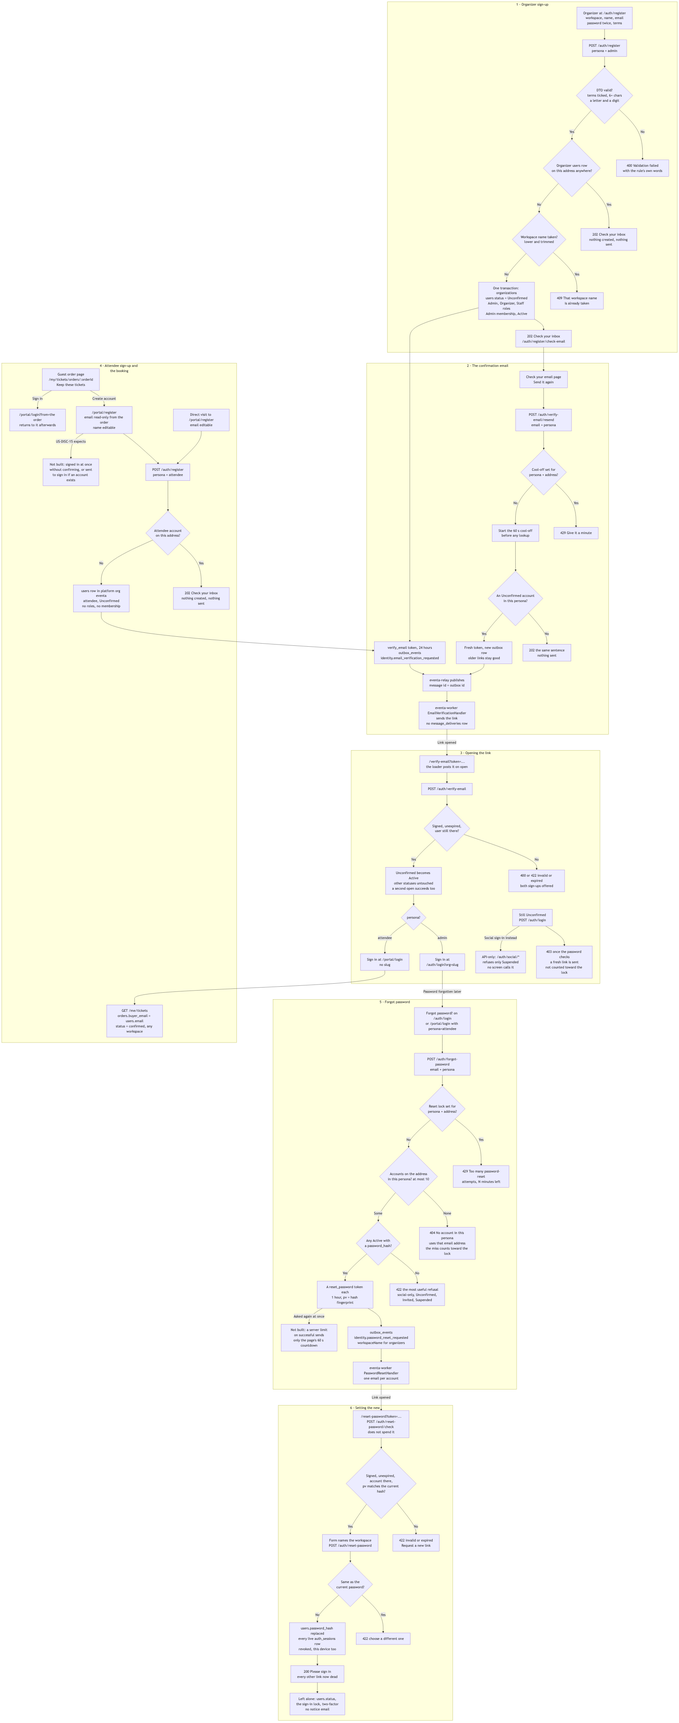
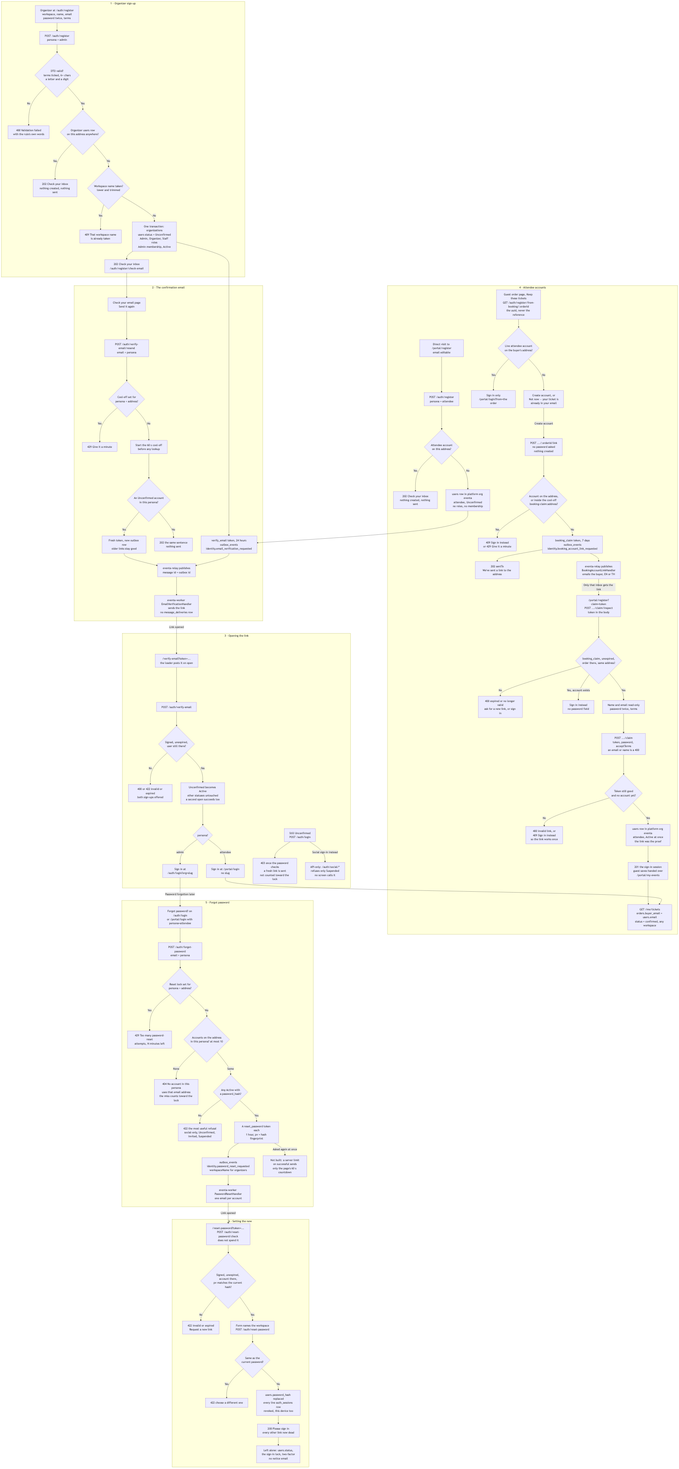
docs(flowcharts): draw the account claimed from a booking's emailed link (US-DISC-15)
Flow 14 drew the account offered from a booking as a "Not built" node and
described an order page that handed the name and address to the sign-up
form in history state. It now draws the built design: the order page asks
whether the address has an account and offers only Sign in if it does;
Create account asks for no password and only emails a one-time link
(identity.booking_account_link_requested, a 7-day booking_claim token,
the booking-claim: cool-off); the link opens /portal/register?claim= with
the name and address locked, asks for a password and the terms, and signs
straight in to an Active account. Bad, expired and used links, the 409
that makes a link single-use and the race on the unique index are drawn.

Section 4's title is shortened to one line so the new first node no longer
hides its second. Image re-rendered with Mermaid 11.4.1. Flow 23's
order-page card now says what Create account does.

diff --git a/04-architecture/flowcharts/14-sign-up-confirm-and-reset-password.md b/04-architecture/flowcharts/14-sign-up-confirm-and-reset-password.md
@@ -2,7 +2,7 @@
 
 **Screens:** Organizer sign-up, Portal sign-up, Check your email, Verify email, Guest order page, Forgot password, Reset password
 
-How somebody gets an account, proves the address is theirs, and gets back in after forgetting the password. It starts at one of two sign-up forms — `/auth/register` for an organizer, which creates a whole workspace, and `/portal/register` for an attendee, which a guest also reaches from their own order page — runs through an emailed confirmation link, and ends at the matching sign-in described in [Sign-in, roles and permissions](12-sign-in-roles-and-permissions.md). The second half starts at "Forgot password?" on either sign-in and ends with a new password and every session revoked. Changing a password while signed in, two-factor and the sessions list are [Account security](15-account-security.md); the booking whose order page offers the attendee account is [Free registration and confirmation](03-free-registration-and-confirmation.md). Organizer and attendee accounts are separate even on the same address — `users` is unique on `(organization_id, email, persona)` — so every step below is asked of one persona at a time.
+How somebody gets an account, proves the address is theirs, and gets back in after forgetting the password. It starts at one of two sign-up forms — `/auth/register` for an organizer, which creates a whole workspace, and `/portal/register` for an attendee, which a guest also reaches through a link emailed from their own order page — runs through an emailed confirmation link, and ends at the matching sign-in described in [Sign-in, roles and permissions](12-sign-in-roles-and-permissions.md). The second half starts at "Forgot password?" on either sign-in and ends with a new password and every session revoked. Changing a password while signed in, two-factor and the sessions list are [Account security](15-account-security.md); the booking whose order page offers the attendee account is [Free registration and confirmation](03-free-registration-and-confirmation.md). Organizer and attendee accounts are separate even on the same address — `users` is unique on `(organization_id, email, persona)` — so every step below is asked of one persona at a time.
 
 ![Sign-up, confirmation and password reset](images/14-sign-up-confirm-and-reset-password.png)
 
@@ -12,7 +12,11 @@ How somebody gets an account, proves the address is theirs, and gets back in aft
 
 3. **Opening the link, and what an unconfirmed account cannot do.** `/verify-email` sits outside `/auth` because the API builds the URL; it serves both personas and is not `guestOnly`. Its loader posts the token to `POST /auth/verify-email` the moment the page opens — clicking the link *is* the request, so a "confirm" button would confirm nothing — and a link with no token is refused by the page itself as incomplete. A mangled token fails the DTO's `@IsJWT` with a 400 "Validation failed." whose field message is deliberately the expired one, "This confirmation link is invalid or has expired. Request a new one."; a bad signature, an expired token or a user deleted since is that sentence as a 422. Otherwise, inside the account's tenant, a `users` row at `Unconfirmed` becomes `Active` with `updated_at`, any other status is left as it is, and the slug and persona come back. Nothing else is written — no `audit_events` row, no outbox event — and the call is idempotent: **opening the same link again within its 24 hours answers "Email confirmed" again**, although the check-email page says the link "works once" and the failure page says each one "can only be opened once". (The token's `typ` claim is not checked either, unlike the two-factor challenge's, so any token the API signs over the same user and organization would do; the only other token an unconfirmed user can come to hold is from the API-only social sign-in below.) An organizer is sent to `/auth/login?org=<slug>`, where the slug rides as a hidden `orgSlug` and skips the workspace picker; an attendee goes to bare `/portal/login`, because attendee sign-in refuses an `orgSlug` with a 422 and the platform organization is never named. A failed link offers both sign-ups by name, since a token that does not decode cannot say whose it was, and no resend, since the page has no address. Until the link is opened the account is inert. `POST /auth/login` checks the password first and only then refuses with a 403 `EMAIL_NOT_CONFIRMED`, "Please confirm your email — we’ve sent you a fresh link.", writing a new outbox row on the spot; that send bypasses the resend cool-off, being behind a proven password, and none of it counts towards the sign-in lock. The forgot-password form refuses the account with a 422 (step 5), and without a session no guarded route answers at all — even though the owner's Admin membership is already active. The one way round it is **API-only**: `POST /auth/social/organizer` and `POST /auth/social/attendee` link a provider-verified address to an existing account and refuse only `Suspended`, so a social sign-in would open a session for an account that stays `Unconfirmed`. No screen calls them — the Google button on the organizer forms says it isn't connected, and the portal has none.
 
-4. **Attendee sign-up, and the account offered from a booking.** `/portal/register` is `guestOnly('attendee')` and has no workspace field and no social buttons. `useSignUp('attendee')` posts the same `POST /auth/register` with `persona = 'attendee'`, and the shared input builder drops any workspace name, because the API refuses one for an attendee with a 422 "An attendee account doesn't have a workspace — leave organizationName out." rather than ignoring it. The duplicate check is persona-scoped: a non-deleted attendee row on the address gets the same neutral 202 with nothing created or sent, while an organizer account on the same address does not count, so one person may run events and buy tickets without either blocking the other. A new account is **one `users` row in the platform organization** (slug `eventa`, seeded by migration 0026) with `persona = 'attendee'` and `status = 'Unconfirmed'` — no workspace, no roles, no membership, because an attendee's tickets span every organizer and scoping the login to one would give them an account per organizer. A deployment missing that organization answers a 500 "Attendee accounts are unavailable right now. Please try again later." rather than a cheerful "check your inbox" for an account that was never made. From there it is steps 2 and 3 exactly, through `/portal/register/check-email` to `/portal/login`, which lands on `/portal/my-events`. `/portal/login` itself links only to Discover and to the attendee's forgot form — **not built: a "create an account" link on the attendee sign-in**, which US-DISC-08 asks for. The way in that is built is the guest's own order page, `/my/tickets/orders/:orderId`, whose last card, "Keep these tickets", offers **Sign in** — `/portal/login?from=` the order, which returns there afterwards, since only same-site paths are honoured — and **Create account**, which opens `/portal/register` with the buyer's name and email in history state. There the email is `readOnly` under "Your tickets are matched to this address, so your account has to use it." and the name is pre-filled but editable. US-DISC-15 expects more than that, and the code does less: the offer sits on the order page rather than on the "You're registered!" overlay, and has no dismiss; it is shown whether or not the address already has an attendee account, so somebody who has one gets the neutral 202, the check-email page and a mail that never comes ("Send it again" sends nothing to an active account) instead of being sent to sign in; they are asked for their name, the password twice and the terms rather than only a password; **they are not signed in — the account needs the same emailed confirmation as a direct sign-up**; and the locked address is a browser courtesy only, since no order id reaches the API and the API would create the account for any address it is sent. That last point is why the confirmation cannot be skipped here: it is the only proof of the address. Orders attach by matching, never by claiming — nothing is written at sign-up or confirmation. `GET /me/tickets` resolves the caller's `users.email` server-side from the token and lists the `orders` whose `buyer_email` equals it (both `citext`, so case does not matter), with `status = 'confirmed'` and no `deleted_at`, across every workspace — deliberately cross-tenant — up to 200. Bookings made before the account existed and after it appear the same way, an order still awaiting payment or approval appears once it is confirmed, and a booking made under a different address never will.
+4. **Attendee sign-up, and the account offered from a booking.** `/portal/register` is `guestOnly('attendee')` and has no workspace field and no social buttons. `useSignUp('attendee')` posts the same `POST /auth/register` with `persona = 'attendee'`, and the shared input builder drops any workspace name, because the API refuses one for an attendee with a 422 "An attendee account doesn't have a workspace — leave organizationName out." rather than ignoring it. The duplicate check is persona-scoped: a non-deleted attendee row on the address gets the same neutral 202 with nothing created or sent, while an organizer account on the same address does not count, so one person may run events and buy tickets without either blocking the other. A new account is **one `users` row in the platform organization** (slug `eventa`, seeded by migration 0026) with `persona = 'attendee'` and `status = 'Unconfirmed'` — no workspace, no roles, no membership, because an attendee's tickets span every organizer and scoping the login to one would give them an account per organizer. A deployment missing that organization answers a 500 "Attendee accounts are unavailable right now. Please try again later." rather than a cheerful "check your inbox" for an account that was never made. From there it is steps 2 and 3 exactly, through `/portal/register/check-email` to `/portal/login`, which lands on `/portal/my-events`. `/portal/login` itself links only to Discover and to the attendee's forgot form — **not built: a "create an account" link on the attendee sign-in**, which US-DISC-08 asks for. The way in that is built is the guest's own order page, `/my/tickets/orders/:orderId`, whose last card, "Keep these tickets", offers the account from the booking (US-DISC-15). **Its rule is that the booking's inbox is proven before the account exists, and no password is chosen before that proof.** The page is shown to whoever made the booking, before anyone has read the buyer's mail, and anybody can book — a free RSVP is enough — under somebody else's address; an account made from the page itself would let that booker set the password for the owner's account and then read on My Events every order ever placed with the address, across every organizer and with the ticket codes. So the card first asks `GET /auth/register/from-booking/:orderId` — public, keyed by the order's uuid and never its reference, a 404 for an order that does not exist — whether a live attendee account already uses the buyer's address. If one does, the card offers only **Sign in**, `/portal/login?from=` the order, which returns there afterwards, since only same-site paths are honoured. Otherwise it offers **Create account** beside "Not now — your ticket is already in your email", and dismissing or ignoring it changes nothing. **Create account asks for no password and creates nothing.** It posts `POST /auth/register/from-booking/:orderId/link` with no body. A live attendee account on the address is a 409 "An account already uses this email. Sign in instead."; a second request inside the cool-off is `ResendThrottleService`'s own 429 "A confirmation link was just sent. Give it a minute before asking for another." — the cool-off is claimed as a `link` under an identity of its own, `booking-claim:` and the lower-cased address, so it shares no key with sign-up's resend and, like every link cool-off, fails open when Redis is unreachable. Otherwise the API signs a `booking_claim` JWT — `sub` the order's id, `email` the buyer's address, valid for 7 days — and inserts one `outbox_events` row with `aggregate_type = 'order'`, the order as `aggregate_id`, the platform organization as `organization_id` and `routing_key = 'identity.booking_account_link_requested'`, whose payload carries the buyer's name and address, the event's name, `claimUrl` = `PUBLIC_WEB_URL/portal/register?claim=…`, `expiresAt` and `locale` — the language the booking's own confirmation email was written in. The answer is a 202 with `sentTo`, the buyer's address, and the card replaces itself with "We've sent a link to &lt;address&gt;. Open it to choose a password — it proves the address is yours."; a refusal is shown in the API's own words. **eventa-worker**'s `BookingAccountLinkHandler` sends "Keep your tickets for &lt;event&gt; in an Eventa account" through the same `EMAIL_PROVIDER` transport as the confirmation email, in English or Thai by `locale`. It is plain text: what the link does — choose a password, then see every booking made with this address in one place — the link on a line of its own, when it expires in Asia/Bangkok time, that the tickets need no account, and that nothing is created until the link is opened and a password chosen, for a reader who never booked. Like the confirmation email it writes no `message_deliveries` row and rides the same retry ladder. Neither service logs the token, the URL or the address.
+
+   The emailed link opens `/portal/register?claim=<token>` in booking-claim mode. Its loader posts the token in the body — never in a URL the API would log — to `POST /auth/register/from-booking/claim/inspect`, which accepts it only as a `booking_claim` (an access, refresh, invitation, reset or confirmation token is refused by its `typ`), re-reads the order its `sub` names, and checks that the order's `buyer_email` still equals the token's address, ignoring case. Anything else — mangled, forged, expired, the wrong type, the order gone or its address changed since — is one 400 "This link has expired or is no longer valid. Ask for a new one from your booking confirmation.", and the page offers `/portal/login`. A good link returns the name from the order, the address and `accountExists`; if the address has meanwhile gained an account, the page offers "Sign in instead" and no password field. Otherwise it shows the name and the address read-only and asks only for the password twice and the Terms & Privacy box. Submit posts `POST /auth/register/from-booking/claim` with `token`, `password` and `acceptTerms` and nothing else: the whitelist pipe refuses an `email` or a `name` with a 400, because the address comes only from the verified token and the name only from the order. The password is held to the one rule every sign-up, reset and change uses, and `acceptTerms` must be true. The token is checked again exactly as above, and a live attendee account on the address is the same 409 — which is also what makes the link work once. Two claims racing on one link can both pass that check, and the unique index on `(organization_id, email, persona)` refuses the loser with the same 409. The account is one `users` row in the platform organization with `persona = 'attendee'` and **`status = 'Active'` from the first second: opening the link was the confirmation**, so there is no check-email page and no `identity.email_verification_requested`. The 201 is the body a sign-in returns, from `AuthService.startSession`, so the browser starts the session exactly as after a sign-in, hands any guest saves to the account and lands on `/portal/my-events`.
+
+   Orders attach by matching, never by being written to the account — nothing touches `orders` at sign-up, at confirmation or when a booking's link is used. `GET /me/tickets` resolves the caller's `users.email` server-side from the token and lists the `orders` whose `buyer_email` equals it (both `citext`, so case does not matter), with `status = 'confirmed'` and no `deleted_at`, across every workspace — deliberately cross-tenant — up to 200. Bookings made before the account existed and after it appear the same way, an order still awaiting payment or approval appears once it is confirmed, and a booking made under a different address never will.
 
 5. **Forgot password.** "Forgot password?" on `/auth/login` opens `/auth/forgot-password`, and on `/portal/login` opens the same page with `?persona=attendee`; anything else in that parameter is read as organizer, because the address bar is not a trusted input. The subtitle names the realm and the page always offers the other one's form. `POST /auth/forgot-password` takes the email (trimmed and lower-cased) and the persona, and **before the account is looked up** asks the sign-in lockout service whether persona + address is locked — but under its own `reset:` keys, a prefix the service owns, so failed sign-ins never lock this form and probing this form never locks anybody's sign-in, whatever workspace slug a sign-in attempt types. A lock is a 429 "Too many password-reset attempts. Try again in N minutes.", rounded up, and while it holds the form says nothing about whether an account exists. The lookup takes every non-deleted `users` row on the address in that persona whose workspace is not deleted, oldest first and at most ten, since each usable one gets an email and an anonymous form must not be able to send more. **None is a 404 that says so — "No organizer account uses that email address. Check the spelling, try your attendee account, or create one." (the attendee form's names the two audiences the other way round) — a deliberate departure from the neutral answers of sign-up and sign-in** (US-ACC-04), because silence looks exactly like a lost mail and the commonest cause is the other audience. What bounds that oracle is that each miss counts: `LOGIN_MAX_ATTEMPTS` (5) misses within `LOGIN_LOCK_SECONDS` (900) lock the address for 900 seconds, and with Redis unreachable the form keeps working. Every account that is `Active` and has a `password_hash` gets a link. When none can, the answer is a single 422 — the refusal that gets the person in soonest, in this order: an account that signs in only socially (naming the providers actually linked in `social_identities`, Google, Apple or LinkedIn), then `Unconfirmed` (open the confirmation link; signing in sends a fresh one, and this form never does, as it asks for no password), then `Invited` (open the invitation), then `Suspended` (ask a workspace admin). These are the accounts' own state rather than guessing, so they never count towards the lock. Each link is a `reset_password` JWT over the user and organization, valid for one hour and carrying `pv` — the first 16 hex characters of a SHA-256 of the current `password_hash` — and goes out as an `outbox_events` row with `routing_key = 'identity.password_reset_requested'`, `resetUrl` = `PUBLIC_WEB_URL/reset-password?token=…` and, for an organizer only, `workspaceName`. **eventa-worker**'s `PasswordResetHandler` sends "Reset your Eventa password", naming the workspace where there is one so somebody with accounts in two can tell the emails apart, and saying the link expires in one hour and works once. The answer is the same 200 "A password-reset link is on its way." however many went out, so the screen never says how many workspaces an address belongs to. The page then shows "Link sent" and a "Send it again" behind a 60-second countdown kept in `localStorage`. **Not built: any server-side limit on successful requests** — only misses are counted, so that countdown is the only brake, and each accepted request queues up to ten more emails.
 
@@ -60,15 +64,30 @@ flowchart TD
     C9 -- "Social sign-in instead" --> C11["API-only: /auth/social/*<br/>refuses only Suspended<br/>no screen calls it"]
   end
 
-  subgraph FOUR["4 · Attendee sign-up and the booking"]
-    D1["Guest order page<br/>/my/tickets/orders/:orderId<br/>Keep these tickets"] -- "Create account" --> D2["/portal/register<br/>email read-only from the order<br/>name editable"]
-    D1 -- "Sign in" --> D3["/portal/login?from=the order<br/>returns to it afterwards"]
+  subgraph FOUR["4 · Attendee accounts"]
     D4["Direct visit to /portal/register<br/>email editable"] --> D5["POST /auth/register<br/>persona = attendee"]
-    D2 --> D5
     D5 --> D6{"Attendee account<br/>on this address?"}
     D6 -- "Yes" --> D7["202 Check your inbox<br/>nothing created, nothing sent"]
     D6 -- "No" --> D8["users row in platform org eventa<br/>attendee, Unconfirmed<br/>no roles, no membership"]
-    D2 -- "US-DISC-15 expects" --> D9["Not built: signed in at once<br/>without confirming, or sent<br/>to sign in if an account exists"]
+    D1["Guest order page, Keep these tickets<br/>GET /auth/register/from-booking/:orderId<br/>the uuid, never the reference"] --> D2{"Live attendee account<br/>on the buyer's address?"}
+    D2 -- "Yes" --> D3["Sign in only<br/>/portal/login?from=the order"]
+    D2 -- "No" --> D9["Create account, or<br/>Not now — your ticket is<br/>already in your email"]
+    D9 -- "Create account" --> D11["POST .../:orderId/link<br/>no password asked<br/>nothing created"]
+    D11 --> D12{"Account on the address,<br/>or inside the cool-off<br/>booking-claim:address?"}
+    D12 -- "Yes" --> D13["409 Sign in instead<br/>or 429 Give it a minute"]
+    D12 -- "No" --> D14["booking_claim token, 7 days<br/>outbox_events<br/>identity.booking_account_link_requested"]
+    D14 --> D15["202 sentTo<br/>We've sent a link to the address"]
+    D14 --> D16["eventa-relay publishes<br/>BookingAccountLinkHandler<br/>emails the buyer, EN or TH"]
+    D16 -- "Only that inbox gets the link" --> D17["/portal/register?claim=token<br/>POST .../claim/inspect<br/>token in the body"]
+    D17 --> D18{"booking_claim, unexpired,<br/>order there, same address?"}
+    D18 -- "No" --> D19["400 expired or no longer valid<br/>ask for a new link, or sign in"]
+    D18 -- "Yes, account exists" --> D20["Sign in instead<br/>no password field"]
+    D18 -- "Yes" --> D21["Name and email read-only<br/>password twice, terms"]
+    D21 --> D22["POST .../claim<br/>token, password, acceptTerms<br/>an email or name is a 400"]
+    D22 --> D23{"Token still good<br/>and no account yet?"}
+    D23 -- "No" --> D24["400 invalid link, or<br/>409 Sign in instead<br/>so the link works once"]
+    D23 -- "Yes" --> D25["users row in platform org eventa<br/>attendee, Active at once<br/>the link was the proof"]
+    D25 --> D26["201 the sign-in session<br/>guest saves handed over<br/>/portal/my-events"]
     D10["GET /me/tickets<br/>orders.buyer_email = users.email<br/>status = confirmed, any workspace"]
   end
 
@@ -102,6 +121,7 @@ flowchart TD
   B3 -- "Link opened" --> C1
   D8 --> B1
   C8 --> D10
+  D26 --> D10
   C7 -- "Password forgotten later" --> E1
   E11 -- "Link opened" --> F1
 ```

diff --git a/04-architecture/flowcharts/23-my-tickets.md b/04-architecture/flowcharts/23-my-tickets.md
@@ -17,7 +17,7 @@ What an attendee can see and keep after booking. It starts at the order page the
 
    The page shows refunded orders incorrectly in two ways. First, the API returns every `tickets` row on the order whatever its `status`, and the page never reads that status, so a `refunded` or `void` ticket's code is printed like a live one. Second, **a refunded order is labelled "Expired"**. A refund sets `orders.status = 'cancelled'` and `payment_status = 'refunded'`, and the API sends `paymentRequired = true` because it computes that flag as `payment_status ≠ 'paid'`. The page therefore treats the order as owed and, because the order is not `pending`, as no longer payable. It then replaces the "Cancelled" banner with "Expired" and a notice that ends "Nothing was charged." No test catches it: the mapper's refunded fixture keeps `status = 'confirmed'` and `paymentRequired: false`, a combination the API never sends after a refund, and it asserts only the mapper's own state, while the swap to "Expired" happens in the page, which has no test.
 
-   Apart from the Pay now panel, the page writes nothing. Its last card, "Keep these tickets", offers **Sign in**, which goes to `/portal/login?from=` this page so the attendee returns here rather than to My Events, and **Create account**, which opens `/portal/register` with the name and email in history state (see [flow 14](14-sign-up-confirm-and-reset-password.md)). Nothing in My Events links back to this page, so this is the only screen where an attendee ever sees a real `qr_token`.
+   Apart from the Pay now panel and the account link below, the page writes nothing. Its last card, "Keep these tickets", first asks whether the booking's address already has an attendee account. If it has, the card offers only **Sign in**, which goes to `/portal/login?from=` this page so the attendee returns here rather than to My Events. If not, it offers **Create account** and "Not now — your ticket is already in your email". Create account asks for no password and creates nothing here: it has a one-time link emailed to the booking's address, and the account is made only from that link, so whoever made the booking cannot make it for somebody else's address (see [flow 14](14-sign-up-confirm-and-reset-password.md) step 4). Nothing in My Events links back to this page, so this is the only screen where an attendee ever sees a real `qr_token`.
 
 2. **Signing in to My Events.** `/portal/my-events` needs an attendee account; the route manifest's comment calls it the one portal route that does, but `/portal/survey` is wrapped the same way ([Surveys, feedback and NPS](11-surveys-and-feedback.md)). Its loader is wrapped in `attendeeData`, which checks the persona label the browser stored at sign-in before it fetches anything. If the label is not `attendee`, the loader redirects to `/portal/login?from=<this page>`; it never sends the attendee to the organizer sign-in, which would ask for a workspace they do not have. A token the API still refuses after a refresh is redirected the same way. Signing in is `POST /auth/login` with no `orgSlug`, exactly as in [Sign-in, roles and permissions](12-sign-in-roles-and-permissions.md). Afterwards `safeRedirect` honours a same-site `?from=` and otherwise falls back to `/portal/my-events`. An attendee who is already signed in and presses **Sign in** on Discover is sent straight on by `guestOnly('attendee')`.
 
